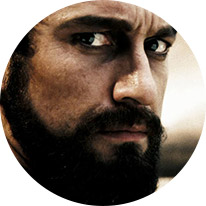
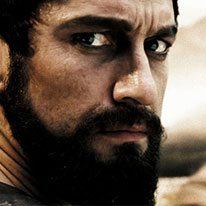
style main-area

diff --git a/css/styles.css b/css/styles.css
@@ -48,16 +48,19 @@ header,
 .footer,
 section
 {
-	padding: 0 8%;
+	padding: 60px 6%;
 	width: 100%;
 }
 
 header {
 	background-color: #d8302d;
+	padding: 0;
 }
 
 .main-area {
-	background: url(../img/main-bg.jpg);
+	background: url(../img/main-bg.jpg) center no-repeat;
+	background-size: cover;
+	height: 554px;
 }
 
 .projects {
@@ -80,6 +83,17 @@ header {
 
 
 /***** COMPONENTS *****/
+.top-navigation {
+	-height: 90px;
+}
+
+.top-navigation ul {
+	display: inline-block;
+	float: right;
+	margin: 0;
+	padding: 0;
+}
+
 .top-navigation li {
 	display: inline-block;
 	-list-style-type: none;
@@ -90,5 +104,52 @@ header {
 	font-family: "Lato";
 	font-style: 18px;
 }
+
+.profile-picture {
+	border-radius: 50%;
+	margin-bottom: 20px;
+}
+
+
+/* SOCIAL LINKS */
+.social {
+	padding-top: 30px;
+}
+
+.social a {
+	color: #fff;
+	font-size: 22px;
+	text-decoration: none;
+}
+
+.social-twitter:before,
+.social-github:before,
+.social-fcc:before {
+	content: ' ';
+	display: inline-block;
+	height: 50px;
+	margin-right: 14px;
+	vertical-align: -16px;
+	width: 50px;
+
+}
+
+.social-github:before {
+	background-image: url(../img/github-icon.png);
+}
+
+.social-fcc:before {
+	background-image: url(../img/fcc-icon.png);
+	height: 45px;
+	vertical-align: -12px;
+	width: 66px;
+}
+
+.social-twitter:before {
+	background-image: url(../img/twitter-icon.png);
+}
+
+
+/* END SOCIAL LINKS */
 
 /***** END COMPONENTS *****/

diff --git a/index.html b/index.html
@@ -52,10 +52,10 @@
 					</div>
 				</div>
 
-				<div class="row text-center">
-					<div class="col-md-4"><a href="https://github.com/jefferson-silva" class="social social-github">GitHub</a></div>
-					<div class="col-md-4"><a href="http://freecodecamp.com/jefferson-silva" class="social social-fcc">FreeCodeCamp</a></div>
-					<div class="col-md-4"><a href="https://twitter.com/jeff_jsl" class="social social-twitter">Twitter</a></div>
+				<div class="row text-center social">
+					<div class="col-md-4"><a href="https://github.com/jefferson-silva" class="social-github">GitHub</a></div>
+					<div class="col-md-4"><a href="http://freecodecamp.com/jefferson-silva" class="social-fcc">FreeCodeCamp</a></div>
+					<div class="col-md-4"><a href="https://twitter.com/jeff_jsl" class="social-twitter">Twitter</a></div>
 				</div>
 			</div>	
 		</section> <!-- end .main-area -->
